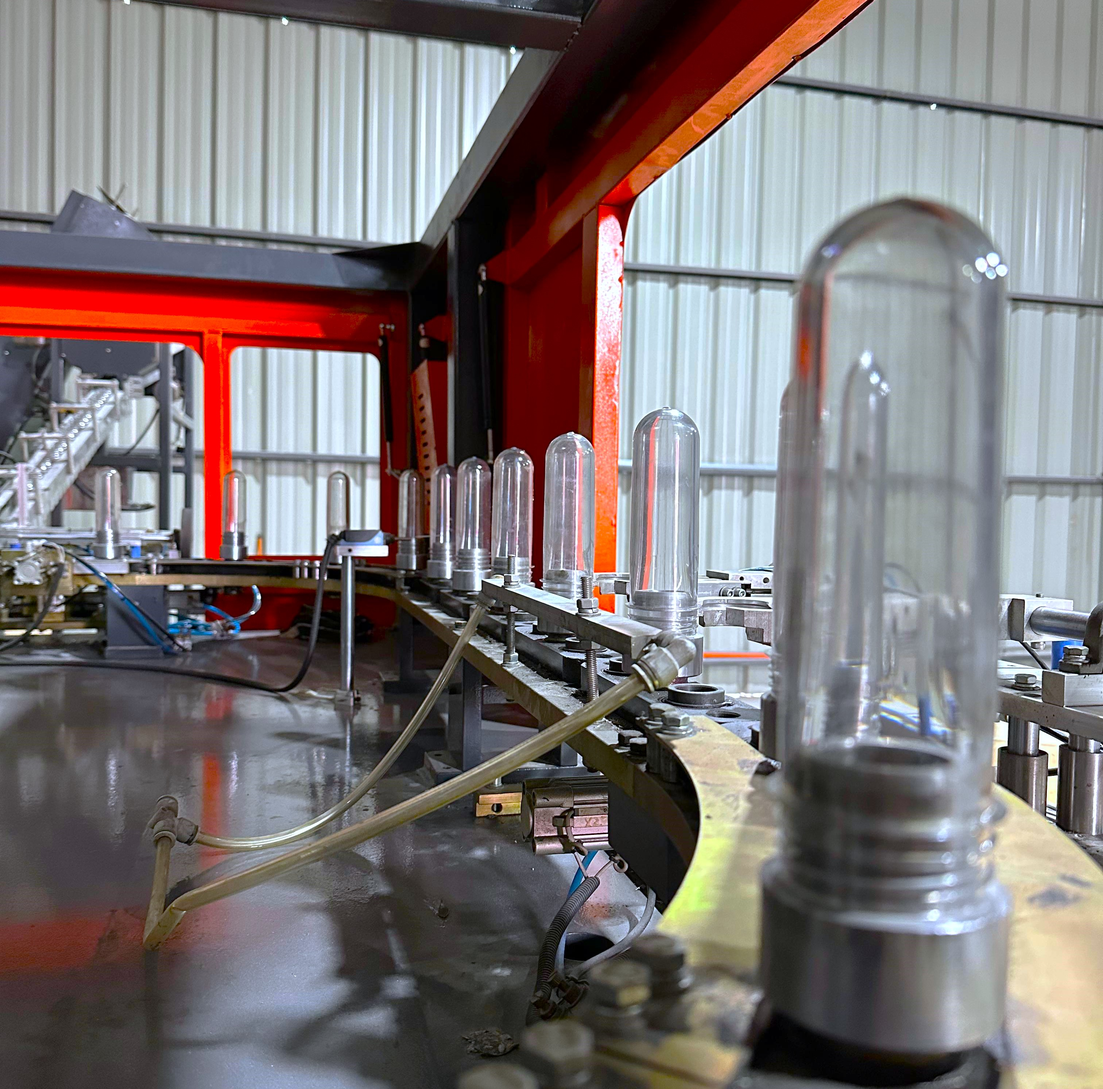
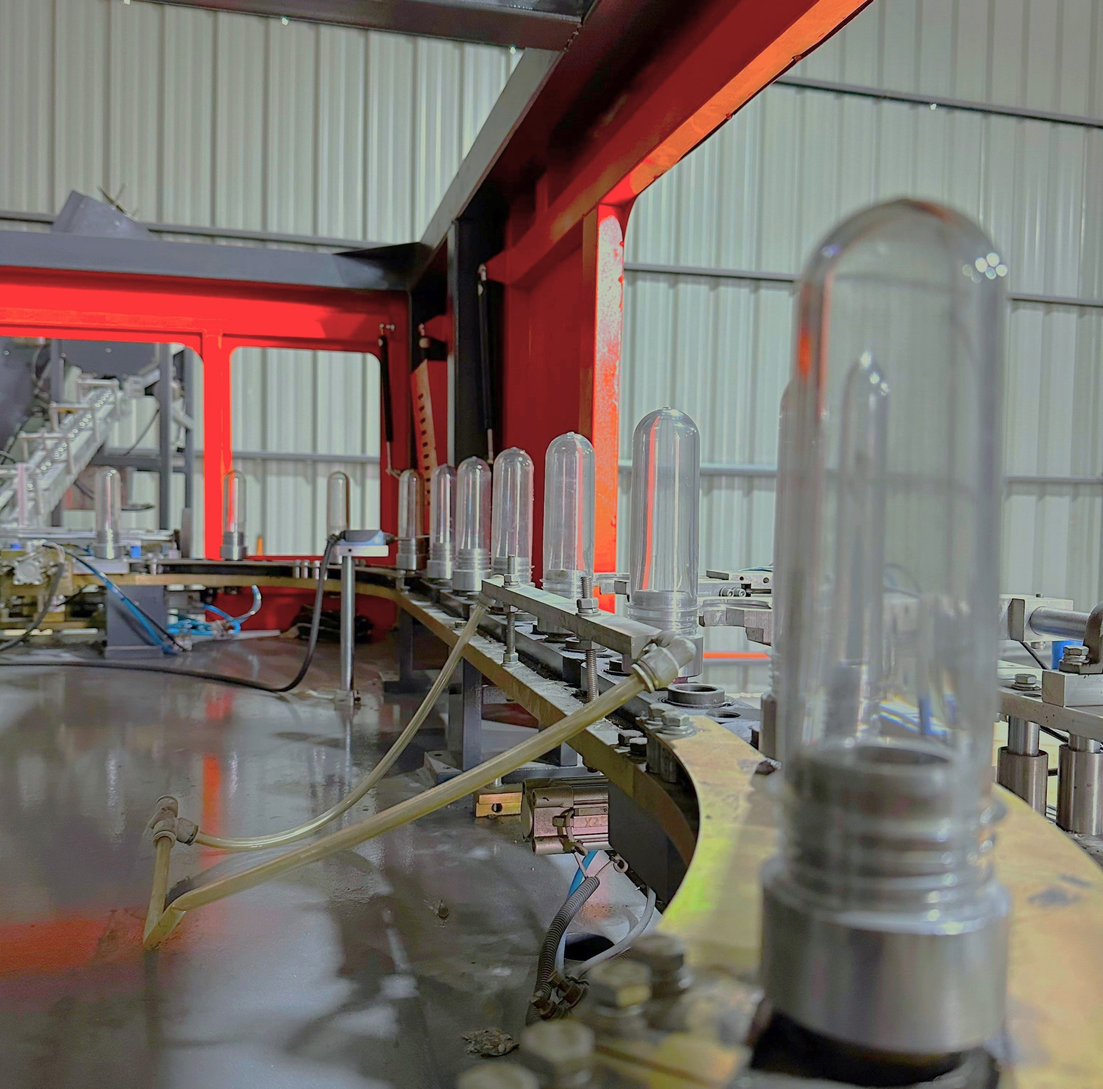
agregar imagenes

diff --git a/src/app/envases-personalizados/page.jsx b/src/app/envases-personalizados/page.jsx
@@ -3,13 +3,13 @@ export default function EnvasesPersonalizados() {
         <section className="mt-16 bg-white">
             {/* Sección superior */}
             <div className="bg-[#334155] relative overflow-hidden">
-                <div className="container mx-auto px-4 py-16 sm:px-6 lg:px-8 text-center items-center">
+                <div className="container mx-auto px-4 py-12 sm:px-6 lg:px-8 text-center items-center">
                     <h1 className="text-4xl font-bold text-white">Envases personalizados</h1>
                     <p className="text-xl text-white mt-4">Lleva tus envases al siguiente nivel</p>
                 </div>
             </div>
 
-            <div className="container py-12 mx-auto px-4 sm:px-6 lg:px-8">
+            <div className="container py-8 mx-auto px-4 sm:px-6 lg:px-8">
                 {/* Sección con imagen y texto */}
                 <div className="flex flex-col md:flex-row items-center justify-between mb-12">
                     <div className="md:w-1/2 md:pr-8">
@@ -27,9 +27,9 @@ export default function EnvasesPersonalizados() {
                         </ul>
                     </div>
 
-                    <div className="md:w-1/2 mt-8 md:mt-0">
+                    <div className="md:w-1/2 mt-8 md:mt-0 brightness-90">
                         <img
-                            src="/images/personalizado.png"
+                            src="/images/fondo13.jpeg"
                             alt="Custom Mold Design"
                             className="w-full min-h-[300px] max-h-[350px] rounded-lg shadow-lg object-cover"
                         />

diff --git a/src/components/seccionProductos.jsx b/src/components/seccionProductos.jsx
@@ -3,20 +3,20 @@ import Link from "next/link";
 export function SeccionProductos() {
     return (
 
-                <Link href="/productos" className="relative block w-full min-h-[300px] max-h-[600px] h-[40vw] bg-cover bg-center text-white">
+        <Link href="/productos" className="border-y-[1px] relative block w-full min-h-[300px] max-h-[600px] h-[40vw] bg-cover bg-center text-white">
             {/* Imagen de fondo adaptativa */}
             <div className="absolute inset-0 z-0 overflow-hidden">
                 <img
                     src='/images/fondo8.jpeg'
                     alt="Imagen de productos"
                     className="w-full h-full object-cover"
-                    style={{ filter: 'brightness(50%)' }} 
+                    style={{ filter: 'brightness(50%)' }}
                 />
             </div>
             <div className="flex w-full h-full relative">
-                <h2 
-                    className="text-2xl flex w-full h-full items-center justify-center md:text-5xl font-bold text-center text-white hover:text-cyan-400" 
-                    style={{ textDecorationThickness: '2.5px' }} 
+                <h2
+                    className="text-2xl flex w-full h-full items-center justify-center md:text-5xl font-bold text-center text-white hover:text-cyan-400"
+                    style={{ textDecorationThickness: '2.5px' }}
                 >
                     PRODUCTOS
                 </h2>

diff --git a/src/app/productos/page.jsx b/src/app/productos/page.jsx
@@ -99,11 +99,11 @@ const products = [
 
 const ProductosPage = () => {
   return (
- <section>
+    <section>
       <div className="bg-[#f1f5f9]">
         {/* Encabezado */}
-        <div className="bg-[#1e1b4b] relative mt-16">
-          <div className="container mx-auto px-4 py-16 text-center">
+        <div className="bg-[#334155] relative mt-16">
+          <div className="container mx-auto px-4 py-12 text-center">
             <h1 className="text-4xl font-bold text-white">Nuestros Productos</h1>
             <p className="text-xl text-white mt-4">
               La elección Inteligente con nuestros Envases PET de 3 y 5 Litros
@@ -114,7 +114,7 @@ const ProductosPage = () => {
         {/* Sección de texto */}
         <div className="container mx-auto px-4 py-12">
           <div className="grid grid-cols-1 md:grid-cols-2 gap-8">
-          <div className="text-lg text-gray-700 leading-relaxed text-justify">
+            <div className="text-lg text-gray-700 leading-relaxed text-justify">
               <p>
                 En un mundo donde la sostenibilidad y la eficiencia son más importantes que nunca, te presentamos nuestros envases de plástico PET, diseñados para satisfacer tus necesidades con estilo y responsabilidad. Con capacidades de 3 y 5 litros.
               </p>

diff --git a/src/components/navigation/navigation.jsx b/src/components/navigation/navigation.jsx
@@ -49,7 +49,7 @@ export function Navigation() {
                 <Link href={link.route} passHref>
                   <p 
                     onClick={handleLinkClick} 
-                    className='block text-md  text-white p-2 text-gray-900 rounded hover:bg-gray-800 xl:hover:bg-transparent xl:hover:text-blue-700 xl:p-0'
+                    className='block text-sm  text-white p-2 text-gray-900 rounded hover:bg-gray-800 xl:hover:bg-transparent xl:hover:text-blue-700 xl:p-0'
                   >
                     {link.label}
                   </p>

diff --git a/src/components/pet/pet.jsx b/src/components/pet/pet.jsx
@@ -57,7 +57,7 @@ export function Pet() {
                     </div>
                     <div className="img-box h-full brightness-75">
                         <img
-                            src="/images/fondo12.jpeg"
+                            src="/images/fondo9.jpeg"
                             alt="About Us tailwind page"
                             className="max-lg:mx-auto shadow-md object-cover lg:max-h-[400px] lg:max-w-[600px] max-h-[350px] max-w-full w-full"
                         />
